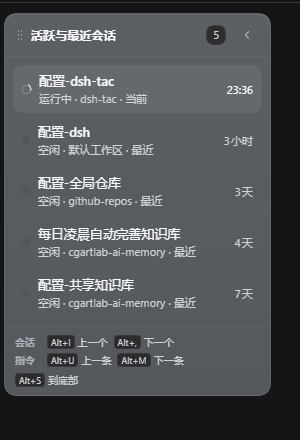
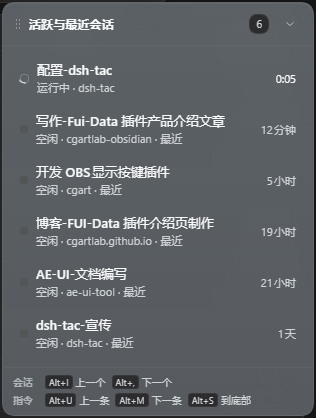
docs(screenshots): recapture the README images from the running 0.6.0 app
The palette image still showed the 0.4.x UI (no archived-only chip) and the board image
predated the grouping toolbar, both recorded as acknowledged debt. They are now captured from
the running 0.6.0 build: the local GUI is served over HTTP with a signed session cookie, so a
cookie can be minted from the browser-session secret stored in ~/.dsh/.credentials.yaml, and a
headless Edge session drove the real app in that authenticated context.

Keys are not injected (the plugin's shortcut listener ignores synthetic events in this setup and
the host window cannot be addressed), so the capture clicks the plugin's own on-screen entry
points instead: the host's "项目看板" panel row for the board, the header session-switch button
for the palette, and the floating list's pill for the HUD. The floating list is hidden for the
board shot so it does not sit on top of the table, and the board clip is trimmed to the table.

screenshots.meta.json now records showsVersion 0.6.0, the new hashes, and verifiedThrough at this
commit; acknowledgedStale is empty. The plugin's own log buffer from that session has 12 info
entries (plugin ready, dock) and no warn/error, and the console recorded no errors.

diff --git a/CHANGELOG.md b/CHANGELOG.md
@@ -6,6 +6,9 @@
 `[未发布]`，等一批功能稳定了再统一发版，避免版本号刷得太碎。
 日期按发布时间倒序排列，最新的在最上面。
 
+## [未发布]
+
+- **README 三张截图更新为 0.6.0 实拍。** 看板（项目视图 7 列全宽）、悬浮会话列表、命令面板（项目 chip 行里能看到「只看已归档」）都是在运行 0.6.0 的应用里即时截的，`screenshots.meta.json` 的 `showsVersion` / `verifiedThrough` 同步到 0.6.0 与当前提交，之前的两条欠账清空。
 ## [0.6.0] - 2026-11-12
 
 - **新增：项目看板的会话表可以按任意会话属性分组。** 工具栏原来的「按项目分组」开关换成了一个分组下拉：项目、状态、类型（自动化/普通）、预设、更新时间分段（今天 / 昨天 / 本周 / 更早）、当前会话。选哪个就按哪个分，选择写进设置、切换会话或重开面板都记得住；每个分组头单独折叠，组头显示该组的会话数。设置页「行为」里也加了同一个选项。
